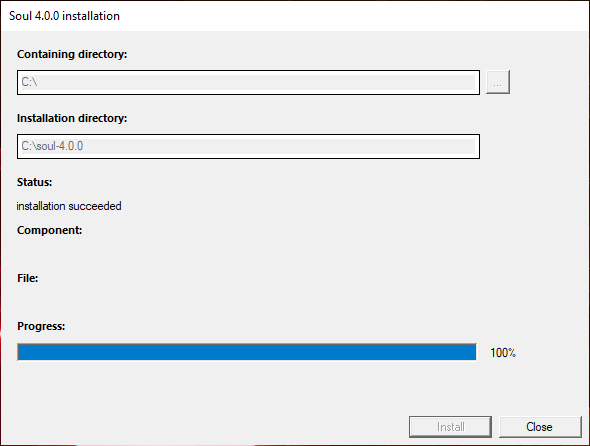
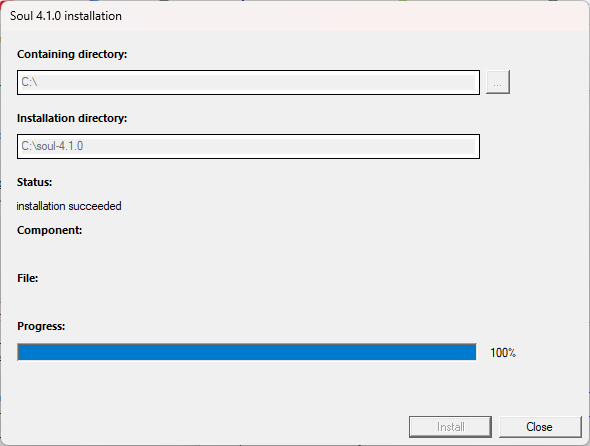
docs

diff --git a/soul-mod/download/download.html b/soul-mod/download/download.html
@@ -7,24 +7,35 @@
     <link href="../style/style.css" rel="stylesheet" type="text/css" />
 </head>
 <body>
-    <h1>Downloads</h1>
-	
-	<h2>Version 4.0.0</h2>
-	
+	<h1>Downloads</h1>
+
+	<h2>Version 4.1.0</h2>
+
 	<h3>Windows x64</h3>
 
-    <ul>
-        <li><a href="https://sourceforge.net/projects/soulng/files/4.0.0/soul-4.0.0-win-x64-setup.exe">Soul 4.0.0 for Windows x64 Setup (SourceForge)</a></li>
-        <li><a href="https://github.com/slaakko/soul-mod/releases/download/4.0.0/soul-4.0.0-win-x64-setup.exe">Soul 4.0.0 for Windows x64 Setup (GitHub)</a></li>
+	<ul>
+		<li><a href="https://sourceforge.net/projects/soulng/files/4.1.0/soul-4.1.0-win-x64-setup.exe">Soul 4.1.0 for Windows x64 Setup (SourceForge)</a></li>
+		<li><a href="https://github.com/slaakko/soul-mod/releases/download/4.1.0/soul-4.1.0-win-x64-setup.exe">Soul 4.1.0 for Windows x64 Setup (GitHub)</a></li>
+		<li><a href="https://sourceforge.net/projects/soulng/files/4.1.0/soul-4.1.0.zip">Soul 4.1.0 ZIP Package (SourceForge)</a></li>
+		<li><a href="https://github.com/slaakko/soul-mod/releases/download/4.1.0/soul-4.1.0.zip">Soul 4.1.0 ZIP Package (GitHub)</a></li>
+	</ul>
+
+	<h2>Version 4.0.0</h2>
+
+	<h3>Windows x64</h3>
+
+	<ul>
+		<li><a href="https://sourceforge.net/projects/soulng/files/4.0.0/soul-4.0.0-win-x64-setup.exe">Soul 4.0.0 for Windows x64 Setup (SourceForge)</a></li>
+		<li><a href="https://github.com/slaakko/soul-mod/releases/download/4.0.0/soul-4.0.0-win-x64-setup.exe">Soul 4.0.0 for Windows x64 Setup (GitHub)</a></li>
 		<li><a href="https://sourceforge.net/projects/soulng/files/4.0.0/soul-4.0.0.zip">Soul 4.0.0 ZIP Package (SourceForge)</a></li>
-        <li><a href="https://github.com/slaakko/soul-mod/releases/download/4.0.0/soul-4.0.0.zip">Soul 4.0.0 ZIP Package (GitHub)</a></li>
-    </ul>
-	
+		<li><a href="https://github.com/slaakko/soul-mod/releases/download/4.0.0/soul-4.0.0.zip">Soul 4.0.0 ZIP Package (GitHub)</a></li>
+	</ul>
+
 	<h2>
 		Previous versions
 	</h2>
-	
+
 	<p>Previous versions are <a href="https://slaakko.github.io/soulng/download/download.html">here</a>.</p>
-	
+
 </body>
 </html>

diff --git a/soul-mod/installation/zip.html b/soul-mod/installation/zip.html
@@ -10,16 +10,16 @@
     <h1>Installation from the ZIP package</h1>
 
 	<ul>
-		<li>Extract the <span class="mono">soul-4.0.0.zip</span> package to a directory of your choice.</li>
-		<li>Create a SOUL_ROOT environment variable and set it to point to the <span class="mono">soul-4.0.0</span> directory that is under the directory where you extracted.</li>
+		<li>Extract the <span class="mono">soul-4.1.0.zip</span> package to a directory of your choice.</li>
+		<li>Create a SOUL_ROOT environment variable and set it to point to the <span class="mono">soul-4.1.0</span> directory that is under the directory where you extracted.</li>
 		<img src="../image/inst_soul_root_env.png"/>
-		<li>Add the <span class="mono">soul-4.0.0\bin</span> directory to your PATH environment variable.</li>
+		<li>Add the <span class="mono">soul-4.1.0\bin</span> directory to your PATH environment variable.</li>
 		<img src="../image/inst_zip_path.png"/>
 		<li>Open the <span class="mono">soul-mod\config\build.props</span> file with a text editor.</li>
 		<li>Change the value of the BOOST_INCLUDE_DIR and BOOST_LIB_DIR macros within the <span class="mono">PropertyGroup Label="UserMacros"</span> element
 		to contain the paths to your Boost include directory and Boost library directory.</li>
 		<img src="../image/build_props.png"/>
-		<li>Open a command prompt to the <span class="mono">soul-4.0.0\examples\minilang</span> directory and run <span class="mono">build.bat</span></li>
+		<li>Open a command prompt to the <span class="mono">soul-4.1.0\examples\minilang</span> directory and run <span class="mono">build.bat</span></li>
 		<img src="../image/inst_zip_test.png"/>
 		<li>The bat runs <span class="mono">slg</span> and <span class="mono">spg</span> with the minilang project files.</li>
 		<li>If the programs run and print:<br/>

diff --git a/soul-mod/installation/setup.html b/soul-mod/installation/setup.html
@@ -14,7 +14,7 @@
 	</p>
 
 	<ul>
-		<li>Start the <span class="kw">soul-4.0.0-win-x64-setup.exe</span> executable and click the <span class="kw">Install</span> button</li>
+		<li>Start the <span class="kw">soul-4.1.0-win-x64-setup.exe</span> executable and click the <span class="kw">Install</span> button</li>
 		<img src="../image/inst_start.png"/>
 		<li>The installer copies files, creates a SOUL_ROOT environment variable that points to the installation directory and adds the <span class="mono">INSTALLATION_DIR\bin</span> directory to the PATH.</li>
 		<li>Click the <span class="kw">Close</span> button to close the installation program:</li>
@@ -23,8 +23,8 @@
 		<li>Change the value of the BOOST_INCLUDE_DIR and BOOST_LIB_DIR macros within the <span class="mono">PropertyGroup Label="UserMacros"</span> element
 		to contain the paths to your Boost include directory and Boost library directory.</li>
 		<img src="../image/build_props.png"/>
-		<li>Open a command prompt to the <span class="mono">soul-4.0.0\examples\minilang</span> directory and run <span class="mono">build.bat</span></li>
-		<img src="../image/inst_zip_test.png"/>
+		<li>Open a command prompt to the <span class="mono">soul-4.1.0\examples\minilang</span> directory and run <span class="mono">build.bat</span></li>
+		<img src="../image/setup_build_minilang.png"/>
 		<li>The bat runs <span class="mono">slg</span> and <span class="mono">spg</span> with the minilang project files.</li>
 		<li>If the programs run and print:<br/>
 		'lexers for project 'minilang.slg' generated successfully.' and
